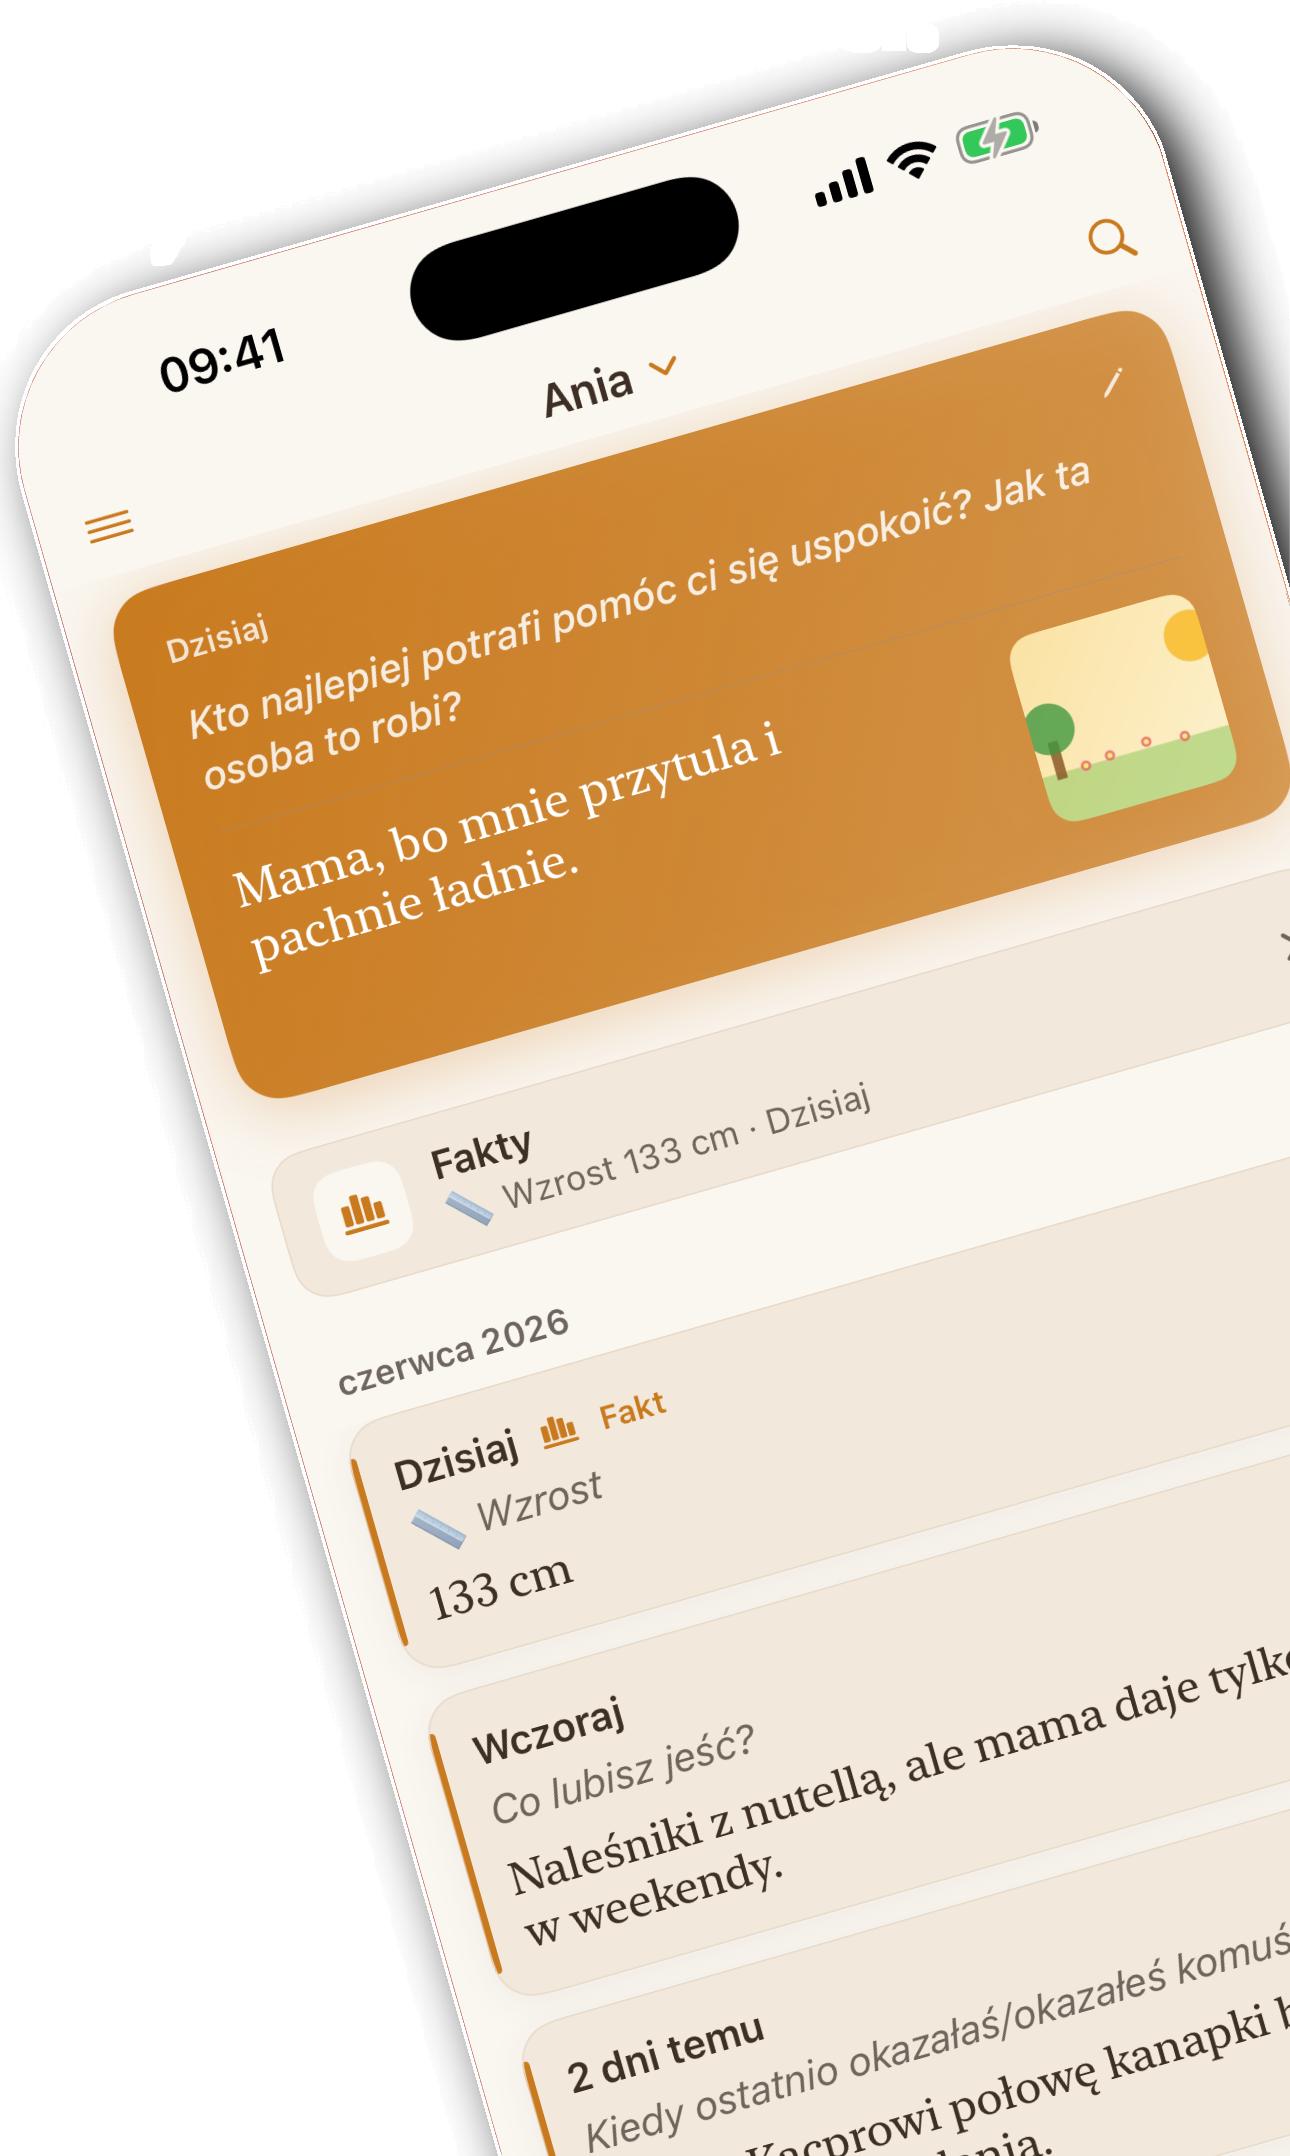
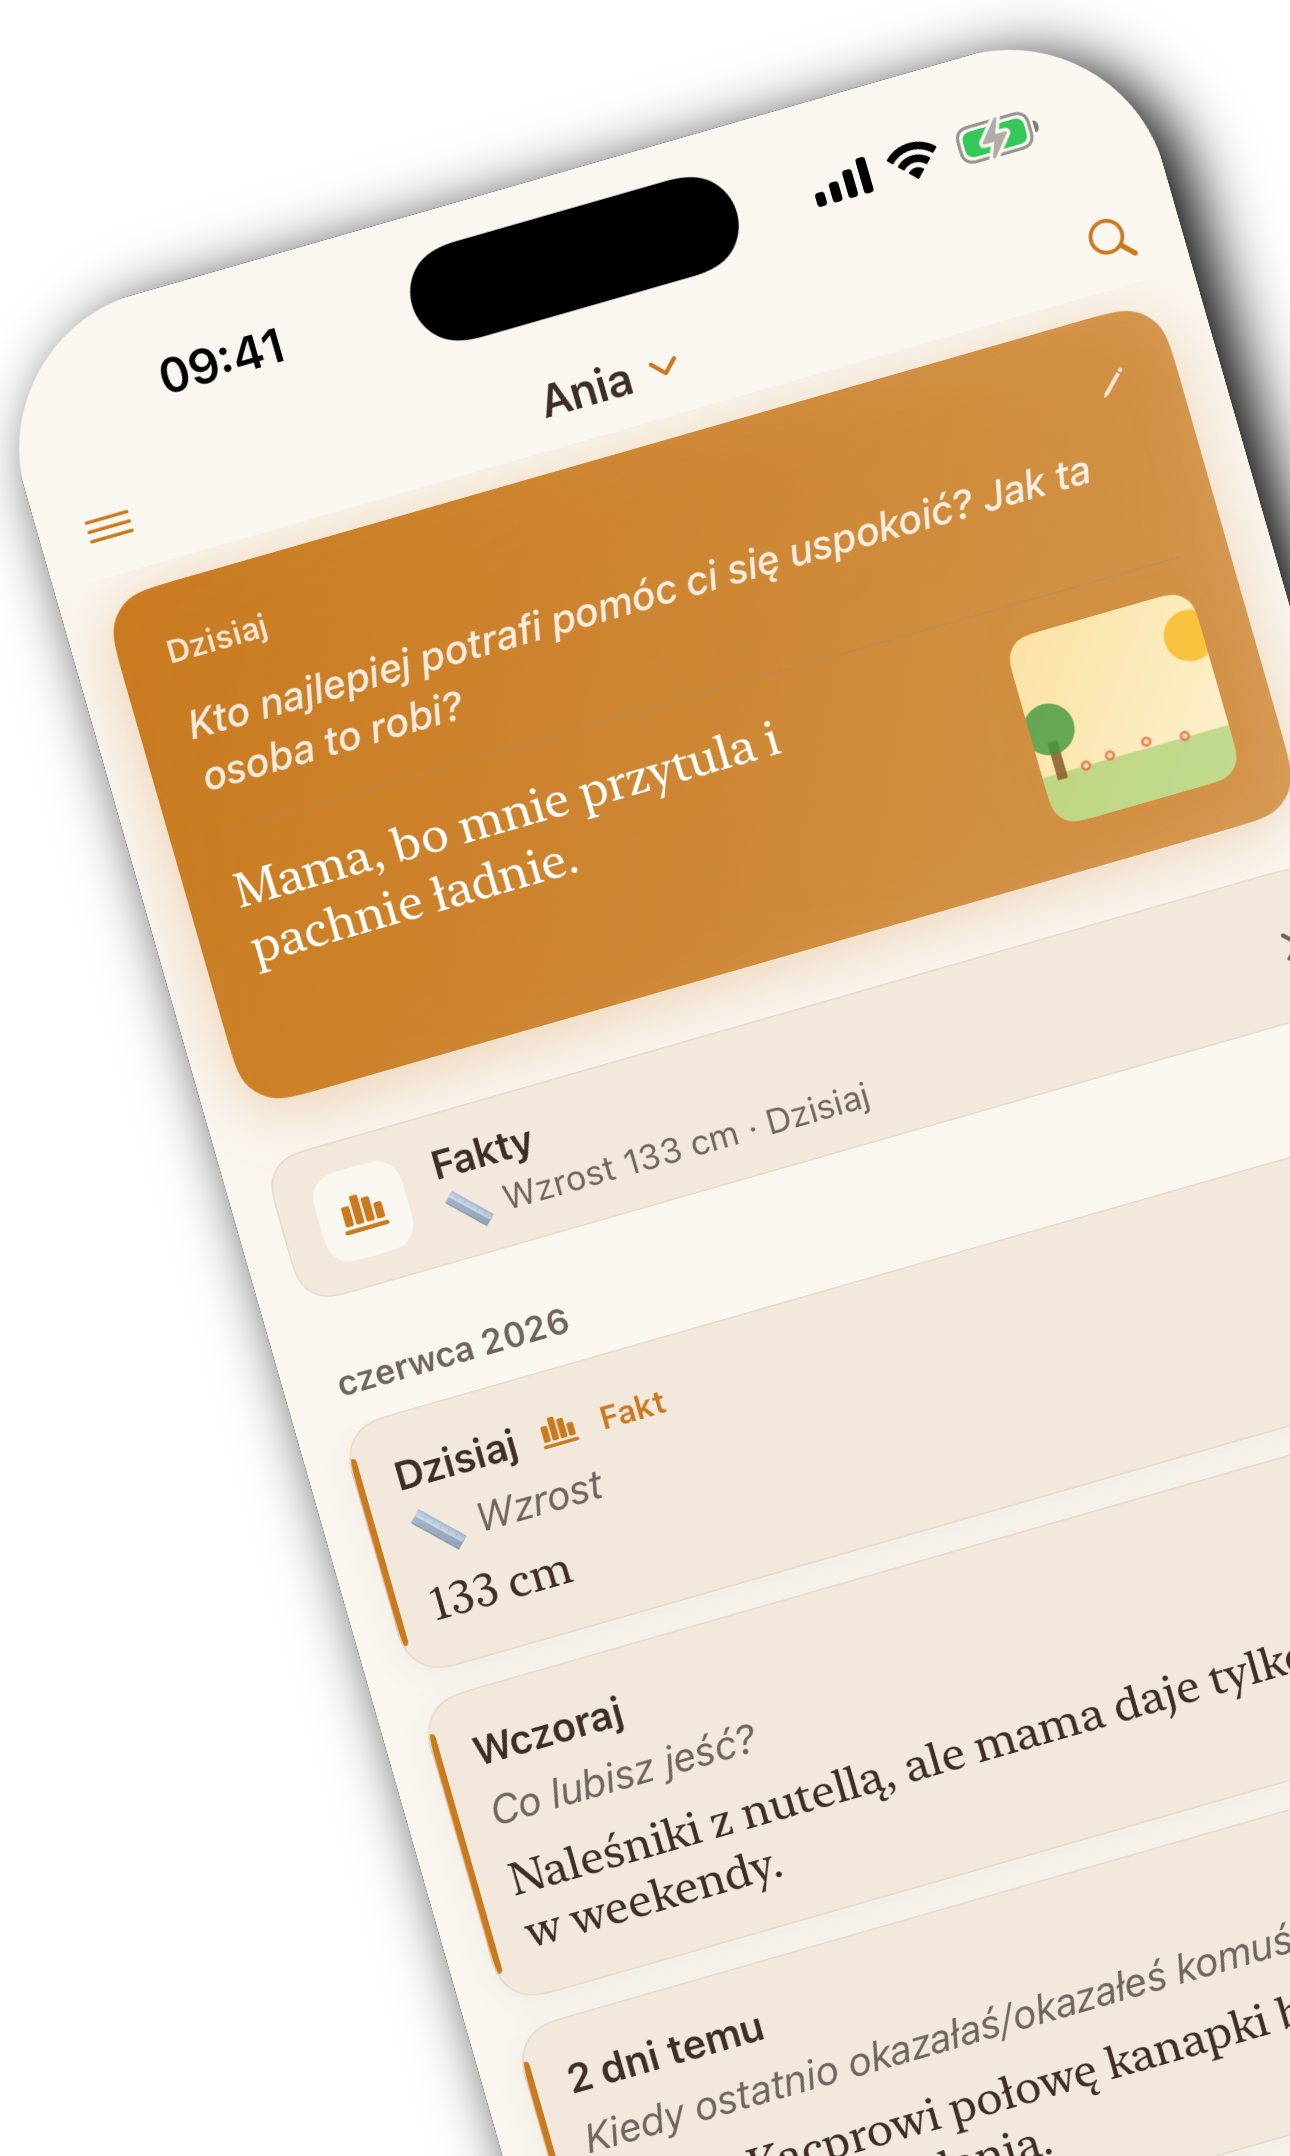
Pages 1-2: draw both phones and their shadows together
Page 1's tilted phone runs over the seam onto page 2. The old layers had a
transparent gap between that phone and its shadow (a thin orange line on
page 1) and two different positions for it on page 2. build_phones.py now
draws page 1's phone, page 2's phone and both shadows on one two-page canvas
(shadow fitted to the template's own) and cuts it into the two Canva layers.
images/*/image{1,2}.png are rebuilt from those layers. This replaces the
image-only patch in fix_seam.py.

Claude-Session: https://claude.ai/code/session_01RysN6u6ztiAhNhJ4pBs71C

diff --git a/design/screenshots-1.1/build_phones.py b/design/screenshots-1.1/build_phones.py
@@ -1,8 +1,8 @@
 """Rebuild the phone layers in design/canva-layers/ from new simulator screenshots.
 
-Each phone layer keeps its original shape, rim and shadow; only the screen inside is
-replaced. Page 1's phone is rotated -16 degrees and continues onto page 2 in front of the
-front phone (casting a shadow on it), so both are drawn from the same geometry.
+Pages 3-6 keep each template phone's shape, rim and shadow; only the screen inside is
+replaced. Page 1's phone is rotated -16 degrees and continues onto page 2 in front of page 2's
+phone, so pages 1 and 2 are drawn together from scratch, shadows included (see seam_pages).
 
 Usage: python3 build_phones.py <screens dir> <out dir>
 The screens dir holds <lang>_<n>_*.png from an iPhone 17 Pro Max (1320 x 2868, 440 pt).
@@ -67,10 +67,6 @@ def rotated_geometry(lang):
     return tl + offset, dt, dl, width
 
 
-def flat_rect(mask_bbox_layer):
-    return mask_bbox_layer
-
-
 def rounded_mask(shape, x0, y0, x1, y1, r):
     m = np.zeros(shape, np.uint8)
     cv2.rectangle(m, (x0 + r, y0), (x1 - r, y1), 255, -1)
@@ -98,10 +94,70 @@ def compose(layer, content, region, edges=()):
     return out
 
 
+# Soft drop shadow (blur sigma, x and y offset, strength), fitted to the template's own phone shadow.
+SHADOW = (31, 24, 12, 1.0)
+MARGIN = 160
+
+
+def shadow_of(mask):
+    sig, dx, dy, k = SHADOW
+    m = cv2.warpAffine(mask, np.float32([[1, 0, dx], [0, 1, dy]]), mask.shape[::-1])
+    return k * cv2.GaussianBlur(m, (0, 0), sig)
+
+
+def over(dst, rgb, a):
+    """Straight-alpha 'over' of rgb with alpha a (0..1 floats) onto dst (h x w x 4 floats)."""
+    a = a[..., None]
+    da = dst[..., 3:4]
+    oa = a + da * (1 - a)
+    dst[..., :3] = np.where(oa > 0, (rgb * a + dst[..., :3] * da * (1 - a)) / np.maximum(oa, 1e-6), 0)
+    dst[..., 3:4] = oa
+
+
+def seam_pages(lang, shots, pos, tl, ex, ey, width):
+    """Pages 1 and 2 share one picture: page 1's phone, tilted, runs over the seam and lies on top
+    of page 2's day-page phone. Both phones and their shadows are drawn from scratch on one
+    two-page canvas (with a margin, so parts off the page still cast shadows), then cut into the
+    two layers: back phone shadow, back phone, tilted phone shadow, tilted phone."""
+    page_w, page_h, m = 1290, 2796, MARGIN
+    size = (2 * page_w + 2 * m, page_h + 2 * m)
+    canvas = np.zeros((size[1], size[0], 4), np.float32)
+    black = np.zeros(3, np.float32)
+
+    # page 2's phone: x 140-1149, y 42-2226 of its layer
+    p2 = pos[f"{lang}2"]
+    x0, y0 = page_w + p2["left"] + 140 + m, p2["top"] + 42 + m
+    x1, y1 = page_w + p2["left"] + 1149 + m, p2["top"] + 2226 + m
+    pw = x1 - x0 + 1
+    back = warp(shots[PAGES[2]], (x0, y0), (1, 0), (0, 1), pw, size).astype(np.float32)
+    back_mask = rounded_mask((size[1], size[0]), x0, y0, x1, y1, int(round(pw * 0.135))).astype(np.float32) / 255
+    over(canvas, black, shadow_of(back_mask))
+    over(canvas, back[..., :3], back_mask)
+
+    # page 1's tilted phone, the rounded body warped with the screenshot so the edges match
+    shot = shots[PAGES[1]]
+    sh, sw = shot.shape[:2]
+    o = tl + m
+    front = warp(shot, o, ex, ey, width, size).astype(np.float32)
+    body = np.zeros((sh, sw, 4), np.uint8)
+    body[..., 3] = rounded_mask((sh, sw), 0, 0, sw - 1, sh - 1, int(round(sw * 0.135)))
+    front_mask = warp(body, o, ex, ey, width, size)[..., 3].astype(np.float32) / 255
+    over(canvas, black, shadow_of(front_mask))
+    over(canvas, front[..., :3], front_mask)
+
+    out = np.clip(canvas * [1, 1, 1, 255] + 0.5, 0, 255).astype(np.uint8)
+    p1 = pos[f"{lang}1"]
+    l1 = out[m + p1["top"]: m + p1["top"] + p1["height"], m + p1["left"]: m + p1["left"] + p1["width"]]
+    l2 = out[m + p2["top"]: m + p2["top"] + p2["height"],
+             m + page_w + p2["left"]: m + page_w + p2["left"] + p2["width"]]
+    return {1: l1, 2: l2}
+
+
 def build(lang, shots, out_dir):
     pos = json.load(open(os.path.join(LAYERS, "positions.json")))
     page_w = 1290
     tl, ex, ey, width = rotated_geometry(lang)
+    seam = seam_pages(lang, shots, pos, tl, ex, ey, width)
     for page in range(1, 7):
         name = f"phone_{lang}{page}.png"
         if page == 6:
@@ -115,43 +171,17 @@ def build(lang, shots, out_dir):
         edges = [e for e, hit in (("left", p["left"] == 0), ("right", p["left"] + w == page_w),
                                   ("bottom", p["top"] + h == 2796)) if hit]
         shot = shots[PAGES[page]]
-        full = np.full((h, w), 255, np.uint8)
-        if page == 1:
-            o = tl - np.array([p["left"], p["top"]])
-            content = warp(shot, o, ex, ey, width, (w, h))
-            out = compose(layer, content, full, edges)
+        if page in (1, 2):
+            out = seam[page]
         else:
             opaque = (layer[:, :, 3] >= 250).astype(np.uint8)
-            if page == 2:
-                # the front phone is fully visible: x 140-1149, y 42-2226 in this layer
-                x0, x1, y0, y1 = 140, 1149, 42, 2226
-            else:
-                ys, xs = np.nonzero(opaque)
-                x0, x1, y0, y1 = xs.min(), xs.max(), ys.min(), ys.max()
+            ys, xs = np.nonzero(opaque)
+            x0, x1, y0, y1 = xs.min(), xs.max(), ys.min(), ys.max()
             pw = x1 - x0 + 1
             content = warp(shot, (x0, y0), (1, 0), (0, 1), pw, (w, h))
             r = int(round(pw * 0.135))
             front = rounded_mask((h, w), x0, y0, x1, max(y1, y0 + int(pw * 2.2)), r)
-            if page == 2:
-                # page 1's tilted phone lies on top of the front phone here
-                back_shot = shots[PAGES[1]]
-                sh, sw = back_shot.shape[:2]
-                o = tl - np.array([page_w + p["left"], p["top"]])
-                back = warp(back_shot, o, ex, ey, width, (w, h))
-                body = np.zeros((sh, sw, 4), np.uint8)
-                body[..., 3] = rounded_mask((sh, sw), 0, 0, sw - 1, sh - 1, int(round(sw * 0.135)))
-                tilted = warp(body, o, ex, ey, width, (w, h))[..., 3]
-                # its soft shadow falls on the front screen, down and to the right
-                shadow = np.zeros_like(tilted)
-                shadow[18:, 10:] = tilted[:-18, :-10]
-                shadow = cv2.GaussianBlur(shadow.astype(np.float32) / 255, (0, 0), 26)
-                content = content.copy()
-                content[..., :3] = (content[..., :3] * (1 - 0.55 * shadow)[..., None]).astype(np.uint8)
-                front = cv2.min(front, 255 - cv2.dilate(tilted, np.ones((5, 5), np.uint8)))
-                out = compose(layer, content, front, edges)
-                out = compose(out, back, tilted, edges)
-            else:
-                out = compose(layer, content, front, edges)
+            out = compose(layer, content, front, edges)
         cv2.imwrite(os.path.join(out_dir, name), out)
         print("wrote", name)
 
